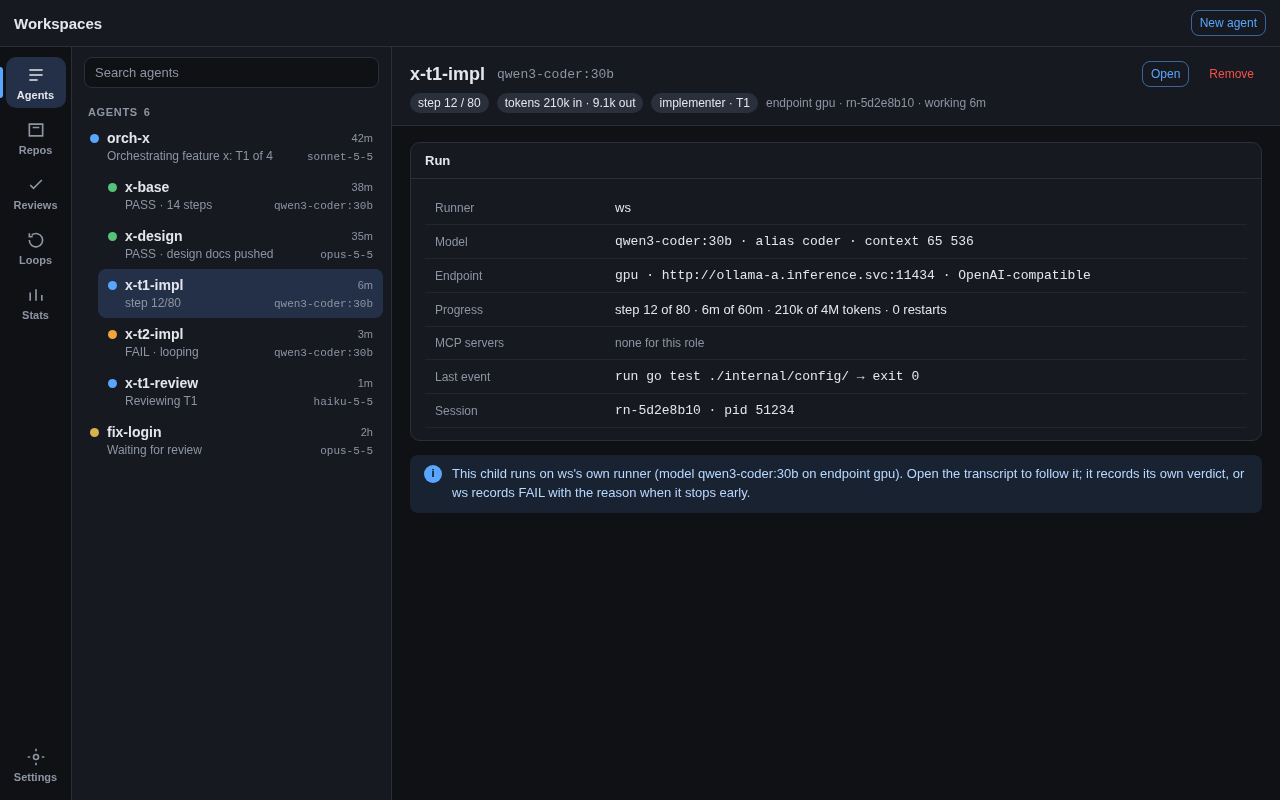
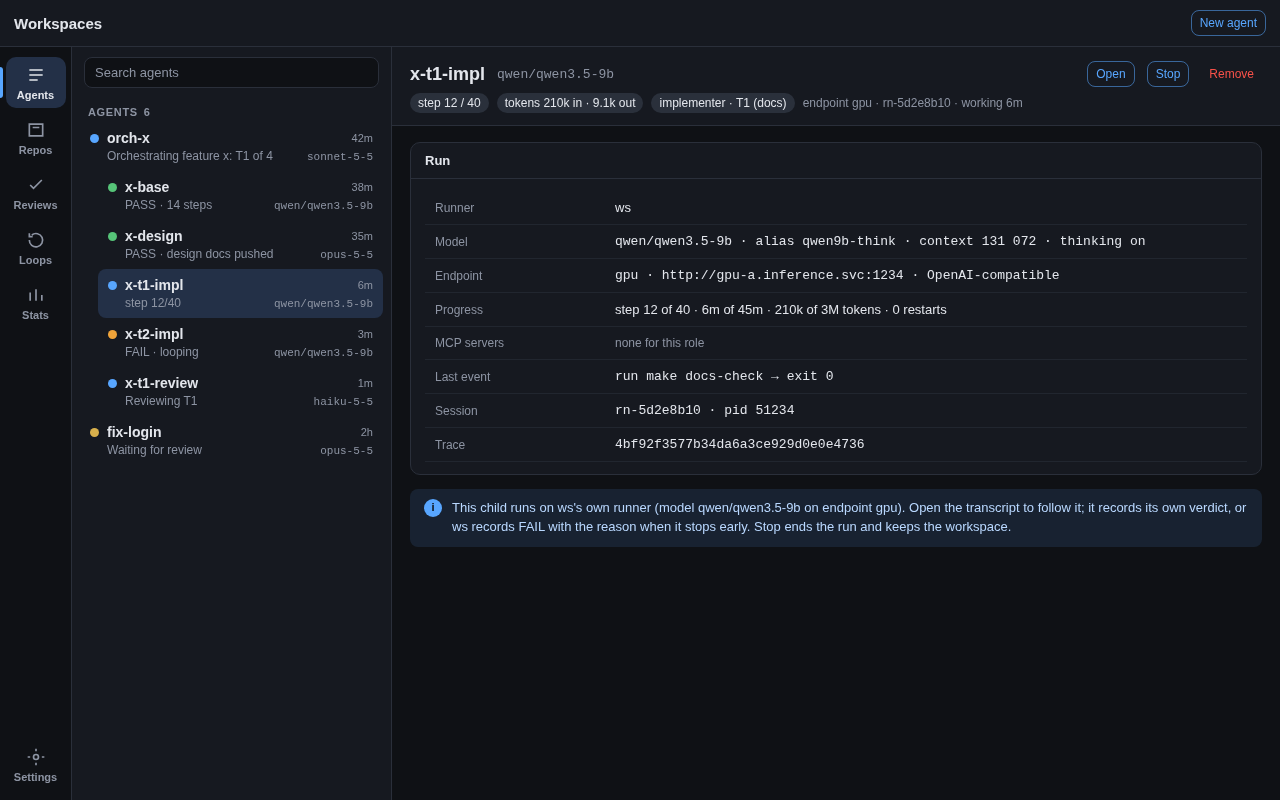
docs: re-render the runner mockups for the second review
Model ids become qwen/qwen3.5-9b, the agent pane gains Stop, Settings ›
Models gains the Runner service line and a reasoning column, the daemon
screen shows the app-hosted daemon, and a loop form screen shows the
runner and model pickers.

diff --git a/docs/design/ollama-agent/mockups.html b/docs/design/ollama-agent/mockups.html
@@ -1,11 +1,11 @@
 <!doctype html>
 <!--
   Static mockups for ws's own agent runner and the ws daemon
-  (docs/design/ollama-agent; ADRs 0062-0069). Open with a hash to pick a
+  (docs/design/ollama-agent; ADRs 0062-0070). Open with a hash to pick a
   screen, e.g. mockups.html#settings-models. Screens: cli-spawn,
   cli-children-wait, cli-errors, cli-list, cli-daemon (terminal, 1100 wide,
   height fitting the content) and agents-tree, transcript, settings-models,
-  settings-models-errors (desktop app, 1280x800). The PNGs in img/ are
+  settings-models-errors, loop-form (desktop app, 1280x800). The PNGs in img/ are
   rendered from this file with headless Chromium through Playwright; see
   README.md › Screens. Every agent, Claude or not, shows its model as quiet
   text; provider and endpoint are only in tooltips and the detail pane.
@@ -149,11 +149,11 @@ td { padding: 9px 10px; border-bottom: 1px solid color-mix(in srgb, var(--border
   <span class="k">"warnings"</span>: [],
   <span class="k">"role"</span>: <span class="s">"implementer"</span>,
   <span class="k">"runner"</span>: <span class="s">"ws"</span>,
-  <span class="k">"model"</span>: <span class="s">"qwen3-coder:30b"</span>,
+  <span class="k">"model"</span>: <span class="s">"qwen/qwen3.5-9b"</span>,
   <span class="k">"ws_runner"</span>: {
-    <span class="k">"model_alias"</span>: <span class="s">"coder"</span>,
+    <span class="k">"model_alias"</span>: <span class="s">"qwen9b"</span>,
     <span class="k">"endpoint"</span>: <span class="s">"gpu"</span>,
-    <span class="k">"url"</span>: <span class="s">"http://ollama-a.inference.svc:11434"</span>,
+    <span class="k">"url"</span>: <span class="s">"http://gpu-a.inference.svc:1234"</span>,
     <span class="k">"api"</span>: <span class="s">"openai"</span>,
     <span class="k">"context_tokens"</span>: <span class="n">65536</span>,
     <span class="k">"mcp_servers"</span>: []
@@ -165,21 +165,26 @@ td { padding: 9px 10px; border-bottom: 1px solid color-mix(in srgb, var(--border
 ws
 <span class="p">$</span> ws machine spawn --name x-verify --role verifier --var BRANCH=feat/x --var CHECKS="make lint; make test" \
     workspaces@feat/x | jq -c '{id, session, runner, model}'
-{"id":"x-verify-0d9e2f61","session":"rn-91b0c7aa","runner":"ws","model":"qwen3-coder:30b"}
+{"id":"x-verify-0d9e2f61","session":"rn-91b0c7aa","runner":"ws","model":"qwen/qwen3.5-9b"}
 
 <span class="c"># override only the model for one child, by alias:</span>
 <span class="p">$</span> ws machine spawn --runner ws --name x-t3-impl --role implementer --var TASK=T3 … workspaces@feat/x \
-    -- "" --model devstral | jq -c '{model, alias: .ws_runner.model_alias}'
-{"model":"devstral-small-2:24b","alias":"devstral"}</pre></div>
+    -- "" --model qwen9b-think | jq -c '{model, alias: .ws_runner.model_alias, context: .ws_runner.context_tokens}'
+{"model":"qwen/qwen3.5-9b","alias":"qwen9b-think","context":131072}
+
+<span class="c"># a raw model id works too; "/" and ":" are part of it, never split:</span>
+<span class="p">$</span> ws machine spawn --runner ws --endpoint ollama --name x-t4-impl --role implementer … workspaces@feat/x \
+    -- "" --model qwen3.5:9b | jq -c '{model, alias: .ws_runner.model_alias, warnings}'
+{"model":"qwen3.5:9b","alias":"","warnings":["qwen3.5:9b isn't a model alias; using it as a model id on endpoint ollama with qwen9b's context size (65536)"]}</pre></div>
 </section>
 
 <!-- 2. children + wait, mixed runners -->
 <section class="screen" id="cli-children-wait">
 <div class="term"><div class="termBar"><i></i><i></i><i></i><span>orchestrator · mixed runners</span></div>
 <pre class="out"><span class="p">$</span> ws machine children | jq -r '.workspaces[] | [.id, .session.runner, .session.model, .session.state, (.result.verdict // "-")] | @tsv'
-x-base-2c9d11f0       ws       qwen3-coder:30b     idle      PASS
+x-base-2c9d11f0       ws       qwen/qwen3.5-9b     idle      PASS
 x-design-8a1f3e22     claude   claude-opus-5-5     idle      PASS
-x-t1-impl-41aa0b7c    ws       qwen3-coder:30b     working   -
+x-t1-impl-41aa0b7c    ws       qwen/qwen3.5-9b     working   -
 x-t1-review-c3d5e7f9  claude   claude-sonnet-5-5   starting  -
 
 <span class="p">$</span> ws machine wait x-t1-impl-41aa0b7c x-t2-impl-7c41e0b2    <span class="c"># run in the background</span>
@@ -190,8 +195,8 @@ x-t1-review-c3d5e7f9  claude   claude-sonnet-5-5   starting  -
               "report": "/…/state/orch-x-1a2b3c4d/machine/x-t1-impl-41aa0b7c/report.md",
               "recorded_at": "2026-11-13T18:04:05Z"},
    "error": null,
-   "runner": "ws", "model": "qwen3-coder:30b",
-   "ws_runner": {"model_alias": "coder", "endpoint": "gpu", "exit": <span class="s">"done"</span>, "steps": 31, "restarts": 0,
+   "runner": "ws", "model": "qwen/qwen3.5-9b",
+   "ws_runner": {"model_alias": "qwen9b", "endpoint": "gpu", "exit": <span class="s">"done"</span>, "steps": 31, "restarts": 0,
                  "usage": {"requests": 33, "prompt_tokens": 512004, "completion_tokens": 18230},
                  "wall_seconds": 1104, "usage_file": "/…/machine/x-t1-impl-41aa0b7c/usage.json"}},
   {"id": "x-t2-impl-7c41e0b2", "session": "rn-3f2a9c1e", "role": "implementer",
@@ -200,8 +205,8 @@ x-t1-review-c3d5e7f9  claude   claude-sonnet-5-5   starting  -
               "report": "/…/state/orch-x-1a2b3c4d/machine/x-t2-impl-7c41e0b2/report.md",
               "recorded_at": "2026-11-13T18:21:40Z"},
    "error": {"code": <span class="e">"child_failed"</span>, "message": "x-t2-impl-7c41e0b2 finished with FAIL"},
-   "runner": "ws", "model": "qwen3-coder:30b",
-   "ws_runner": {"model_alias": "coder", "endpoint": "gpu", "exit": <span class="w">"looping"</span>, "steps": 47, "restarts": 0,
+   "runner": "ws", "model": "qwen/qwen3.5-9b",
+   "ws_runner": {"model_alias": "qwen9b", "endpoint": "gpu", "exit": <span class="w">"looping"</span>, "steps": 47, "restarts": 0,
                  "usage": {"requests": 47, "prompt_tokens": 1630221, "completion_tokens": 22015},
                  "wall_seconds": 2079, "usage_file": "/…/machine/x-t2-impl-7c41e0b2/usage.json"}}
  ],
@@ -222,17 +227,17 @@ The model called run {"command":"go test ./internal/config/"} 5 times in a row w
 <div class="term"><div class="termBar"><i></i><i></i><i></i><span>error states</span></div>
 <pre class="out"><span class="c"># endpoint down: preflight fails before anything is created</span>
 <span class="p">$</span> ws machine spawn --runner ws --role verifier --var BRANCH=feat/x --var CHECKS="make test" workspaces@feat/x
-{"error": {"code": <span class="e">"endpoint_unreachable"</span>, "message": "endpoint gpu (http://ollama-a.inference.svc:11434) didn't answer GET /v1/models: dial tcp 10.43.7.21:11434: connect: connection refused", "details": {"url": "http://ollama-a.inference.svc:11434", "cause": "connection refused"}}}
+{"error": {"code": <span class="e">"endpoint_unreachable"</span>, "message": "endpoint gpu (http://gpu-a.inference.svc:1234) didn't answer GET /v1/models: dial tcp 10.43.7.21:1234: connect: connection refused", "details": {"url": "http://gpu-a.inference.svc:1234", "cause": "connection refused"}}}
 <span class="c">exit status 1</span>
 
-<span class="c"># the model can't call tools (the endpoint's probe says so)</span>
+<span class="c"># the model can't call tools (the ollama endpoint's probe says so)</span>
 <span class="p">$</span> ws machine spawn --runner ws --role verifier … workspaces@feat/x -- "" --model gemma
-{"error": {"code": <span class="e">"model_without_tools"</span>, "message": "model gemma3:12b on endpoint gpu doesn't support tools; pick a model whose capabilities include tools", "details": {"model": "gemma3:12b", "capabilities": ["completion", "vision"]}}}
+{"error": {"code": <span class="e">"model_without_tools"</span>, "message": "model gemma3:12b on endpoint ollama doesn't support tools; pick a model whose capabilities include tools", "details": {"model": "gemma3:12b", "capabilities": ["completion", "vision"]}}}
 <span class="c">exit status 1</span>
 
 <span class="c"># the model isn't served there</span>
-<span class="p">$</span> ws machine spawn --runner ws --role verifier … workspaces@feat/x -- "" --model qwen3-coder:480b
-{"error": {"code": <span class="e">"model_not_served"</span>, "message": "model qwen3-coder:480b isn't served by endpoint gpu", "details": {"model": "qwen3-coder:480b", "models": ["devstral-small-2:24b", "gpt-oss:20b", "qwen3-coder:30b"]}}}
+<span class="p">$</span> ws machine spawn --runner ws --role verifier … workspaces@feat/x -- "" --model qwen/qwen3.5-27b
+{"error": {"code": <span class="e">"model_not_served"</span>, "message": "model qwen/qwen3.5-27b isn't served by endpoint gpu", "details": {"model": "qwen/qwen3.5-27b", "models": ["google/gemma-3-12b", "qwen/qwen3.5-9b"]}}}
 <span class="c">exit status 3</span>
 
 <span class="c"># with runner.fallback = "claude": a Claude child, and a warning</span>
@@ -253,8 +258,8 @@ The model called run {"command":"go test ./internal/config/"} 5 times in a row w
 <pre class="out"><span class="p">$</span> ws list
 ID                           SESSION              MODEL                AGE   REPOS
 orch-x-1a2b3c4d              e8cdf5d8 working     claude-sonnet-5-5    42m   workspaces@main
-└ x-base-2c9d11f0            rn-91b0c7aa idle     qwen3-coder:30b      38m   workspaces@main
-└ x-t1-impl-41aa0b7c         rn-5d2e8b10 working  qwen3-coder:30b       6m   workspaces@feat/x
+└ x-base-2c9d11f0            rn-91b0c7aa idle     qwen/qwen3.5-9b      38m   workspaces@main
+└ x-t1-impl-41aa0b7c         rn-5d2e8b10 working  qwen/qwen3.5-9b       6m   workspaces@feat/x
 └ x-t1-review-c3d5e7f9       c3d5e7f9 starting    claude-sonnet-5-5     0m   workspaces@feat/x-t1
 fix-login-d8efb24f           7a40c2d9 idle        claude-opus-5-5       2h   buff-bear@main
 notes-3b2a1c0d               shell running        -                    10m   (empty)
@@ -267,9 +272,9 @@ notes-3b2a1c0d               shell running        -                    10m   (em
   <span class="k">"pid"</span>: <span class="n">51234</span>,
   <span class="k">"stale"</span>: null,
   <span class="k">"runner"</span>: <span class="s">"ws"</span>,
-  <span class="k">"model"</span>: <span class="s">"qwen3-coder:30b"</span>,
+  <span class="k">"model"</span>: <span class="s">"qwen/qwen3.5-9b"</span>,
   <span class="k">"ws_runner"</span>: {
-    <span class="k">"model_alias"</span>: <span class="s">"coder"</span>, <span class="k">"endpoint"</span>: <span class="s">"gpu"</span>, <span class="k">"step"</span>: <span class="n">12</span>, <span class="k">"max_steps"</span>: <span class="n">80</span>, <span class="k">"restarts"</span>: <span class="n">0</span>,
+    <span class="k">"model_alias"</span>: <span class="s">"qwen9b"</span>, <span class="k">"endpoint"</span>: <span class="s">"gpu"</span>, <span class="k">"step"</span>: <span class="n">12</span>, <span class="k">"max_steps"</span>: <span class="n">80</span>, <span class="k">"restarts"</span>: <span class="n">0</span>,
     <span class="k">"usage"</span>: {<span class="k">"requests"</span>: <span class="n">12</span>, <span class="k">"prompt_tokens"</span>: <span class="n">210344</span>, <span class="k">"completion_tokens"</span>: <span class="n">9120</span>},
     <span class="k">"mcp"</span>: [],
     <span class="k">"exit"</span>: null
@@ -283,20 +288,24 @@ notes-3b2a1c0d               shell running        -                    10m   (em
 <!-- 5. ws daemon -->
 <section class="screen" id="cli-daemon">
 <div class="term"><div class="termBar"><i></i><i></i><i></i><span>ws daemon</span></div>
-<pre class="out"><span class="c"># in the ws-online pod, ws-online keeps a managed daemon running</span>
+<pre class="out"><span class="c"># with the desktop app open, the app hosts the daemon (in the ws-online pod, origin is "managed")</span>
 <span class="p">$</span> ws daemon status --json
-{"running": true, "pid": 40211, "origin": "managed", "started_at": "2026-11-14T08:00:03Z",
+{"running": true, "pid": 40211, "origin": "app", "started_at": "2026-11-14T08:00:03Z",
  "ws_version": "v0.31.0", "socket": "/tmp/ws-1000/3be1f0a94c21.sock", "config_dir": "/data/ws",
  "runners": [{"workspace": "x-t1-impl-41aa0b7c", "session": "rn-5d2e8b10", "pid": 51234,
               "state": "working", "restarts": 0, "adopted": false}],
  "warnings": []}
 
-<span class="c"># on a laptop with no daemon running, the first spawn starts one</span>
+<span class="c"># after the app quits, its daemon keeps the runner going, then exits 15 min after the last one ends</span>
+<span class="p">$</span> ws daemon status --json | jq -c '{running, origin, runners: (.runners | length)}'
+{"running":true,"origin":"app","runners":1}
+
+<span class="c"># with no app and no daemon running, the first spawn starts one</span>
 <span class="p">$</span> ws daemon status | jq -c '{running}'
 {"running":false}
 <span class="p">$</span> ws machine spawn --runner ws --name x-verify --role verifier --var BRANCH=feat/x --var CHECKS="make test" \
     workspaces@feat/x | jq -c '{session, model, ws_runner}'
-{"session":"rn-91b0c7aa","model":"qwen3-coder:30b","ws_runner":{"model_alias":"coder","endpoint":"gpu","url":"http://localhost:11434","api":"openai","context_tokens":65536,"mcp_servers":[]}}
+{"session":"rn-91b0c7aa","model":"qwen/qwen3.5-9b","ws_runner":{"model_alias":"qwen9b","endpoint":"gpu","url":"http://localhost:1234","api":"openai","context_tokens":65536,"mcp_servers":[]}}
 <span class="p">$</span> ws daemon status --json | jq -c '{running, origin}'
 {"running":true,"origin":"transient"}
 
@@ -330,7 +339,8 @@ const agent = ({name, dot, age, summary, model, tip, child, current}) => `
       <li class="item${child ? " child" : ""}${current ? " current" : ""}"><div class="row"><span class="dot ${dot}"></span><span class="name">${name}</span><span class="age">${age}</span></div>
         <div class="summaryRow"><span class="summary">${summary}</span><span class="modelLabel" title="${tip}">${model}</span></div></li>`;
 const claudeTip = (id) => `${id} · Claude Code`;
-const wsTip = `qwen3-coder:30b · alias coder · endpoint gpu (http://ollama-a.inference.svc:11434) · OpenAI-compatible`;
+const wsTip = `qwen/qwen3.5-9b · alias qwen9b · endpoint gpu (http://gpu-a.inference.svc:1234) · OpenAI-compatible`;
+const wsThinkTip = `qwen/qwen3.5-9b · alias qwen9b-think · endpoint gpu (http://gpu-a.inference.svc:1234) · OpenAI-compatible`;
 
 const tree = `
 <aside class="sidebar">
@@ -339,10 +349,10 @@ const tree = `
     <h2 class="heading">Agents <span>6</span></h2>
     <ul class="items">
       ${agent({name: "orch-x", dot: "working", age: "42m", summary: "Orchestrating feature x: T1 of 4", model: "sonnet-5-5", tip: claudeTip("claude-sonnet-5-5")})}
-      ${agent({name: "x-base", dot: "done", age: "38m", summary: "PASS · 14 steps", model: "qwen3-coder:30b", tip: wsTip, child: true})}
+      ${agent({name: "x-base", dot: "done", age: "38m", summary: "PASS · 14 steps", model: "qwen/qwen3.5-9b", tip: wsTip, child: true})}
       ${agent({name: "x-design", dot: "done", age: "35m", summary: "PASS · design docs pushed", model: "opus-5-5", tip: claudeTip("claude-opus-5-5"), child: true})}
-      ${agent({name: "x-t1-impl", dot: "working", age: "6m", summary: "step 12/80", model: "qwen3-coder:30b", tip: wsTip, child: true, current: true})}
-      ${agent({name: "x-t2-impl", dot: "needs", age: "3m", summary: "FAIL · looping", model: "qwen3-coder:30b", tip: wsTip, child: true})}
+      ${agent({name: "x-t1-impl", dot: "working", age: "6m", summary: "step 12/40", model: "qwen/qwen3.5-9b", tip: wsThinkTip, child: true, current: true})}
+      ${agent({name: "x-t2-impl", dot: "needs", age: "3m", summary: "FAIL · looping", model: "qwen/qwen3.5-9b", tip: wsThinkTip, child: true})}
       ${agent({name: "x-t1-review", dot: "working", age: "1m", summary: "Reviewing T1", model: "haiku-5-5", tip: claudeTip("claude-haiku-5-5"), child: true})}
       ${agent({name: "fix-login", dot: "idle", age: "2h", summary: "Waiting for review", model: "opus-5-5", tip: claudeTip("claude-opus-5-5")})}
     </ul>
@@ -351,9 +361,9 @@ const tree = `
 
 const header = `
 <section class="header">
-  <div class="titleRow"><h1 class="title">x-t1-impl</h1><span class="titleModel" title="${wsTip}">qwen3-coder:30b</span><span class="spacer"></span>
-    <button class="btn outlined small">Open</button><button class="btn danger small">Remove</button></div>
-  <div class="meta"><span class="chip">step 12 / 80</span><span class="chip">tokens 210k in · 9.1k out</span><span class="chip">implementer · T1</span>
+  <div class="titleRow"><h1 class="title">x-t1-impl</h1><span class="titleModel" title="${wsThinkTip}">qwen/qwen3.5-9b</span><span class="spacer"></span>
+    <button class="btn outlined small">Open</button><button class="btn outlined small">Stop</button><button class="btn danger small">Remove</button></div>
+  <div class="meta"><span class="chip">step 12 / 40</span><span class="chip">tokens 210k in · 9.1k out</span><span class="chip">implementer · T1 (docs)</span>
     <span class="muted">endpoint gpu · rn-5d2e8b10 · working 6m</span></div>
 </section>`;
 
@@ -362,19 +372,19 @@ const transcript = `
   <div class="msg user">You implement exactly one task, T1, in this repo. You are on branch feat/x. … <span class="muted">(role prompt, 1.4k tokens)</span></div>
   <div class="think">I'll read the task section first.</div>
   <div class="tool"><b>read_file</b> docs/design/x/tasks.md <span class="ck"></span> 212 lines</div>
-  <div class="tool"><b>read_file</b> internal/config/config.go offset 60 limit 120 <span class="ck"></span> 120 lines</div>
-  <div class="msg">The task adds a <code>Runner</code> section to <code>Config</code>. I'll create <code>internal/config/runner.go</code>.</div>
-  <div class="tool"><b>write_file</b> internal/config/runner.go <span class="ck"></span> wrote 4 120 bytes</div>
-  <div class="tool"><b>run</b> go test ./internal/config/ <span class="bad">exit 1</span> · runner_test.go:41: expected "gpu", got ""</div>
+  <div class="tool"><b>read_file</b> docs/tools/ws-loop.md offset 150 limit 80 <span class="ck"></span> 80 lines</div>
+  <div class="msg">The task adds two options to the <code>ws loop add</code> table. I'll edit that table.</div>
+  <div class="tool"><b>edit_file</b> docs/tools/ws-loop.md old "| <code>--paused</code> |" → 1 replacement <span class="ck"></span></div>
+  <div class="tool"><b>run</b> make docs-check <span class="bad">exit 1</span> · ws-loop.md:163 MD013 line length 132 &gt; 120</div>
   <div class="sys">invalid tool call: edit_file missing "new" · answered with the schema</div>
-  <div class="tool"><b>edit_file</b> internal/config/runner.go old "return Run{}, nil" → 1 replacement <span class="ck"></span></div>
+  <div class="tool"><b>edit_file</b> docs/tools/ws-loop.md old "endpoint from config.toml. Only" → 1 replacement <span class="ck"></span></div>
   <div class="sys warn">retry 1/3 after 503 Service Unavailable · waited 2s</div>
-  <div class="tool"><b>run</b> go test ./internal/config/ <span class="ok">exit 0</span> · ok  github.com/example/workspaces/internal/config 0.41s</div>
-  <div class="sys">context compacted: 41k → 19k tokens · 6 tool results elided</div>
-  <div class="tool"><b>run</b> make lint <span class="ok">exit 0</span></div>
-  <div class="msg"><span class="muted">working… step 12 of 80</span></div>
+  <div class="tool"><b>run</b> make docs-check <span class="ok">exit 0</span></div>
+  <div class="sys">context compacted: 98k → 41k tokens · 6 tool results elided</div>
+  <div class="tool"><b>run</b> git commit -qam "docs: document loop runner options" <span class="ok">exit 0</span></div>
+  <div class="msg"><span class="muted">working… step 12 of 40</span></div>
 </div>
-<div class="noreply">Children on the ws runner run unattended: there's no reply box, Attach or Continue. Remove stops the runner.</div>`;
+<div class="noreply">Children on the ws runner run unattended: there's no reply box, Attach or Continue. Stop ends the run and keeps the workspace; Remove stops it and removes it.</div>`;
 
 const settingsList = (active) => `
 <aside class="sidebar settingsList" style="width:240px">
@@ -386,6 +396,10 @@ const settingsList = (active) => `
 const dot = (color, text) => `<span class="statusDot" style="background:${color}"></span>${text}`;
 const ok = "var(--status-done)", bad = "var(--danger)", warn = "var(--status-needs-input)";
 
+const serviceCard = (errors) => `
+<div class="card"><div class="cardHead">Runner service <span class="spacer"></span><button class="btn small">Restart</button></div>
+<div class="cardBody" style="padding:10px 14px">${dot(ok, "running")} <span class="muted">· started by this app · pid 40211 · ${errors ? "0 runners" : "2 runners"} · since 08:00</span></div></div>`;
+
 const endpointsCard = (errors) => `
 <div class="card">
   <div class="cardHead">Endpoints <span class="spacer"></span><button class="btn small">Add endpoint</button></div>
@@ -393,10 +407,10 @@ const endpointsCard = (errors) => `
   <table>
     <colgroup><col style="width:100px"><col style="width:310px"><col style="width:170px"><col style="width:100px"><col></colgroup>
     <tr><th>Name</th><th>URL</th><th>API</th><th>Probe</th><th>Status</th></tr>
-    <tr><td><b>gpu</b></td><td class="mono">http://ollama-a.inference.svc:11434</td><td>OpenAI-compatible</td><td>Ollama</td>
-      <td>${errors ? dot(bad, "unreachable") : dot(ok, "4 models")}</td></tr>
-    <tr><td><b>router</b></td><td class="mono">http://llm-router.inference.svc:8080</td><td>OpenAI-compatible</td><td class="muted">none</td>
-      <td>${dot(ok, "6 models")}</td></tr>
+    <tr><td><b>gpu</b></td><td class="mono">http://gpu-a.inference.svc:1234</td><td>OpenAI-compatible</td><td class="muted">none</td>
+      <td>${errors ? dot(bad, "unreachable") : dot(ok, "2 models")}</td></tr>
+    <tr><td><b>ollama</b></td><td class="mono">http://ollama-a.inference.svc:11434</td><td>OpenAI-compatible</td><td>Ollama</td>
+      <td>${dot(ok, "3 models")}</td></tr>
   </table></div>
 </div>`;
 
@@ -405,46 +419,78 @@ const modelsCard = (errors) => `
   <div class="cardHead">Models <span class="spacer"></span><button class="btn small">Add model</button></div>
   <div class="cardBody" style="padding:4px 4px">
   <table>
-    <colgroup><col style="width:110px"><col style="width:100px"><col style="width:220px"><col style="width:100px"><col></colgroup>
-    <tr><th>Alias</th><th>Endpoint</th><th>Model id</th><th>Context</th><th>Status</th></tr>
-    <tr><td><b>coder</b> <span class="muted">default</span></td><td>gpu</td><td class="mono">qwen3-coder:30b</td><td>65 536</td>
-      <td>${errors ? dot(bad, "endpoint unreachable") : dot(ok, "tools <span class=\"ck\"></span>")}</td></tr>
-    <tr><td><b>devstral</b></td><td>gpu</td><td class="mono">devstral-small-2:24b</td><td>65 536</td>
-      <td>${errors ? dot(bad, "endpoint unreachable") : dot(ok, "tools <span class=\"ck\"></span>")}</td></tr>
-    <tr><td><b>small</b></td><td>router</td><td class="mono">${errors ? "gemma3:12b" : "gpt-oss:20b"}</td><td>32 768</td>
-      <td>${errors ? dot(warn, "can't check tools: no probe") : `<span class="muted">served · no probe</span>`}</td></tr>
+    <colgroup><col style="width:150px"><col style="width:90px"><col style="width:170px"><col style="width:90px"><col style="width:120px"><col></colgroup>
+    <tr><th>Alias</th><th>Endpoint</th><th>Model id</th><th>Context</th><th>Reasoning</th><th>Status</th></tr>
+    <tr><td><b>qwen9b</b> <span class="muted">default</span></td><td>gpu</td><td class="mono">qwen/qwen3.5-9b</td><td>65 536</td><td>none</td>
+      <td>${errors ? dot(bad, "endpoint unreachable") : `<span class="muted">served · no probe</span>`}</td></tr>
+    <tr><td><b>qwen9b-think</b></td><td>gpu</td><td class="mono">qwen/qwen3.5-9b</td><td>131 072</td><td class="muted">server default</td>
+      <td>${errors ? dot(bad, "endpoint unreachable") : `<span class="muted">served · no probe</span>`}</td></tr>
+    <tr><td><b>qwen9b-ollama</b></td><td>ollama</td><td class="mono">qwen3.5:9b</td><td>65 536</td><td>none</td>
+      <td>${dot(ok, "tools <span class=\"ck\"></span>")}</td></tr>
+    <tr><td><b>gemma</b></td><td>ollama</td><td class="mono">gemma3:12b</td><td>32 768</td><td class="muted">server default</td>
+      <td>${errors ? dot(bad, "no tools") : dot(warn, "no tools")}</td></tr>
   </table></div>
 </div>`;
 
 const settingsModels = (errors) => `
 <div class="root tall">${topBar}<div class="body">${rail("Settings")}${settingsList("Models")}
 <main class="main"><section class="header"><div class="titleRow"><h1 class="title">Models</h1></div>
-<div class="meta">Models for ws runner children (any OpenAI-compatible server now; other APIs later). Saved to <span class="mono">config.toml</span> with <span class="mono">ws config</span>; tokens to <span class="mono">secrets.env</span>.</div></section>
+<div class="meta">Models for agents on the ws runner (any OpenAI-compatible server now; Ollama native next). Saved to <span class="mono">config.toml</span> with <span class="mono">ws config</span>; tokens to <span class="mono">secrets.env</span>.</div></section>
 <div class="content" style="max-width:980px">
 ${errors ? `
-<div class="alert err"><span class="ico err">!</span><div><b>gpu is unreachable.</b> GET http://ollama-a.inference.svc:11434/v1/models: dial tcp 10.43.7.21:11434: connect: connection refused. New children that use it fail with <span class="mono">endpoint_unreachable</span> until it answers. Fallback is off, so no Claude child is started instead.</div><span class="spacer"></span><button class="btn small">Test again</button></div>
-<div class="alert warn"><span class="ico warn">!</span><div><b>gemma3:12b on router doesn't support tools.</b> The router has no probe, so a run would stop on its first request with <span class="mono">model_no_tools</span>. Point the alias <span class="mono">small</span> at a model that can call tools.</div></div>` : ""}
+<div class="alert err"><span class="ico err">!</span><div><b>gpu is unreachable.</b> GET http://gpu-a.inference.svc:1234/v1/models: dial tcp 10.43.7.21:1234: connect: connection refused. New agents that use it fail with <span class="mono">endpoint_unreachable</span> until it answers. Fallback is off, so no Claude child is started instead.</div><span class="spacer"></span><button class="btn small">Test again</button></div>
+<div class="alert warn"><span class="ico warn">!</span><div><b>gemma3:12b on ollama doesn't support tools.</b> Its probe says <span class="mono">completion, vision</span>. Agents that use the alias <span class="mono">gemma</span> fail with <span class="mono">model_without_tools</span>; point it at a model that can call tools.</div></div>` : ""}
+${serviceCard(errors)}
 ${endpointsCard(errors)}
 ${modelsCard(errors)}
 ${errors ? "" : `
 <div class="card"><div class="cardHead">Edit endpoint · gpu<span class="spacer"></span><button class="btn small">Test connection</button><button class="btn contained small">Save</button></div>
 <div class="cardBody"><div class="form">
   <label>Name</label><div class="field mono">gpu</div><label>API</label><div class="field select">OpenAI-compatible</div>
-  <label>URL</label><div class="field mono">http://ollama-a.inference.svc:11434</div><label></label><div class="muted">Ollama native, OpenAI Responses, Anthropic: later</div>
-  <label>Probe</label><div class="field select">Auto (found Ollama)</div><label>Token</label><div class="field muted">•••••••• from secrets.env</div>
+  <label>URL</label><div class="field mono">http://gpu-a.inference.svc:1234</div><label></label><div class="muted">Ollama native: next. OpenAI Responses, Anthropic: later</div>
+  <label>Probe</label><div class="field select">Auto (none found)</div><label>Token</label><div class="field muted">•••••••• from secrets.env</div>
   <label>Request timeout</label><div class="field">10m</div><label>Idle timeout</label><div class="field">90s</div>
 </div>
-<div class="alert info" style="margin-top:12px"><span class="ico info">i</span><div>Ollama 0.40.16 · 4 models · <span class="mono">qwen3-coder:30b</span> supports tools · its context length 262 144 ≥ 65 536</div></div>
+<div class="alert info" style="margin-top:12px"><span class="ico info">i</span><div>2 models · <span class="mono">qwen/qwen3.5-9b</span> is served · no probe, so tool support and the context length aren't checked: <span class="mono">context_tokens</span> must match the server's load setting</div></div>
 </div></div>`}
 <div class="setRow" style="padding:4px 0"><div class="lbl"><div>Fall back to Claude</div><div class="muted">When an endpoint is down or a model can't call tools, start a Claude child instead of failing the spawn.</div></div><div><span class="switch"></span></div></div>
 <div class="card"><div class="cardHead">Roles</div><div class="cardBody" style="padding:4px 4px"><table>
-  <colgroup><col style="width:140px"><col style="width:120px"><col style="width:150px"><col style="width:220px"><col></colgroup>
-  <tr><th>Role</th><th>Runner</th><th>Model</th><th>MCP servers</th><th>Budget</th></tr>
-  <tr><td>implementer</td><td><span class="field select" style="min-height:28px;padding:3px 8px">Claude</span></td><td class="muted">haiku (role)</td><td class="muted">Claude Code's</td><td class="muted">-</td></tr>
-  <tr><td>reviewer</td><td><span class="field select" style="min-height:28px;padding:3px 8px">Claude</span></td><td class="muted">sonnet (role)</td><td class="muted">Claude Code's</td><td class="muted">-</td></tr>
-  <tr><td>verifier</td><td><span class="field select" style="min-height:28px;padding:3px 8px">ws</span></td><td class="mono">coder</td><td class="muted">none</td><td class="muted">40 steps · 60m</td></tr>
-  <tr><td>oncall</td><td><span class="field select" style="min-height:28px;padding:3px 8px">ws</span></td><td class="mono">coder</td><td>mcp-grafana <span class="muted">(9 tools)</span></td><td class="muted">60 steps · 60m</td></tr>
+  <colgroup><col style="width:140px"><col style="width:120px"><col style="width:200px"><col style="width:170px"><col></colgroup>
+  <tr><th>Role</th><th>Runner</th><th>Model on the ws runner</th><th>MCP servers</th><th>Budget</th></tr>
+  <tr><td>implementer</td><td><span class="field select" style="min-height:28px;padding:3px 8px">Claude</span></td><td class="mono">qwen9b-think</td><td class="muted">none</td><td class="muted">40 steps · 45m</td></tr>
+  <tr><td>reviewer</td><td><span class="field select" style="min-height:28px;padding:3px 8px">Claude</span></td><td class="muted">-</td><td class="muted">none</td><td class="muted">-</td></tr>
+  <tr><td>verifier</td><td><span class="field select" style="min-height:28px;padding:3px 8px">ws</span></td><td class="mono">qwen9b</td><td class="muted">none</td><td class="muted">30 steps · 30m</td></tr>
+  <tr><td>triage</td><td><span class="field select" style="min-height:28px;padding:3px 8px">ws</span></td><td class="mono">qwen9b-think</td><td>metrics <span class="muted">(9 tools)</span></td><td class="muted">60 steps · 60m</td></tr>
 </table></div></div>
+</div></main></div></div>`;
+
+const loopsList = `
+<aside class="sidebar">
+  <div class="search">Search loops</div>
+  <div class="list">
+    <h2 class="heading">Loops <span>3</span></h2>
+    <ul class="items">
+      <li class="item current"><div class="row"><span class="dot working"></span><span class="name">Docs sweep</span><span class="age">every 24h</span></div><div class="summary">next in 9h · last run PASS</div></li>
+      <li class="item"><div class="row"><span class="dot idle"></span><span class="name">Dependency bump</span><span class="age">every 24h</span></div><div class="summary">next in 3h</div></li>
+      <li class="item"><div class="row"><span class="dot"></span><span class="name">Flaky test hunt</span><span class="age">paused</span></div><div class="summary">paused</div></li>
+    </ul>
+  </div>
+</aside>`;
+
+const loopForm = `
+<div class="root">${topBar}<div class="body">${rail("Loops")}${loopsList}
+<main class="main"><section class="header"><div class="titleRow"><h1 class="title">Edit loop · docs-sweep</h1><span class="spacer"></span><button class="btn small">Cancel</button><button class="btn contained small">Save</button></div></section>
+<div class="content" style="max-width:900px">
+  <div class="card"><div class="cardHead">Schedule</div><div class="cardBody"><div class="form">
+    <label>Name</label><div class="field mono muted">docs-sweep</div><label>Every</label><div class="field">24 <span class="muted">hours</span></div>
+    <label>Title</label><div class="field">Docs sweep</div><label>Keep</label><div class="field">5</div>
+  </div></div></div>
+  <div class="card"><div class="cardHead">Prompt</div><div class="cardBody"><div class="field mono" style="min-height:64px;white-space:pre-wrap">Check docs/tools/*.md against each command's --help. Fix wording drift in at most two files, run make docs-check, commit, push a branch, and record PASS or FAIL.</div></div></div>
+  <div class="card"><div class="cardHead">Agent</div><div class="cardBody"><div class="form">
+    <label>Model</label><div class="field select"><span><span class="mono">qwen9b-think</span> <span class="muted">· qwen/qwen3.5-9b</span></span></div><label>Runner</label><div class="field select">ws runner</div>
+    <label>Endpoint</label><div class="field select">The model's endpoint (gpu)</div><label></label><div class="muted">Permission mode applies to Claude Code only.</div>
+  </div></div></div>
+  <div class="card"><div class="cardHead">Repos</div><div class="cardBody"><span class="chip">workspaces</span></div></div>
 </div></main></div></div>`;
 
 const screens = {
@@ -452,18 +498,20 @@ const screens = {
     <div class="card"><div class="cardHead">Run</div><div class="cardBody"><table>
       <colgroup><col style="width:180px"><col></colgroup>
       <tr><td class="muted">Runner</td><td>ws</td></tr>
-      <tr><td class="muted">Model</td><td class="mono">qwen3-coder:30b · alias coder · context 65 536</td></tr>
-      <tr><td class="muted">Endpoint</td><td class="mono">gpu · http://ollama-a.inference.svc:11434 · OpenAI-compatible</td></tr>
-      <tr><td class="muted">Progress</td><td>step 12 of 80 · 6m of 60m · 210k of 4M tokens · 0 restarts</td></tr>
+      <tr><td class="muted">Model</td><td class="mono">qwen/qwen3.5-9b · alias qwen9b-think · context 131 072 · thinking on</td></tr>
+      <tr><td class="muted">Endpoint</td><td class="mono">gpu · http://gpu-a.inference.svc:1234 · OpenAI-compatible</td></tr>
+      <tr><td class="muted">Progress</td><td>step 12 of 40 · 6m of 45m · 210k of 3M tokens · 0 restarts</td></tr>
       <tr><td class="muted">MCP servers</td><td class="muted">none for this role</td></tr>
-      <tr><td class="muted">Last event</td><td class="mono">run go test ./internal/config/ → exit 0</td></tr>
+      <tr><td class="muted">Last event</td><td class="mono">run make docs-check → exit 0</td></tr>
       <tr><td class="muted">Session</td><td class="mono">rn-5d2e8b10 · pid 51234</td></tr>
+      <tr><td class="muted">Trace</td><td class="mono">4bf92f3577b34da6a3ce929d0e0e4736</td></tr>
     </table></div></div>
-    <div class="alert info"><span class="ico info">i</span><div>This child runs on ws's own runner (model qwen3-coder:30b on endpoint gpu). Open the transcript to follow it; it records its own verdict, or ws records FAIL with the reason when it stops early.</div></div>
+    <div class="alert info"><span class="ico info">i</span><div>This child runs on ws's own runner (model qwen/qwen3.5-9b on endpoint gpu). Open the transcript to follow it; it records its own verdict, or ws records FAIL with the reason when it stops early. Stop ends the run and keeps the workspace.</div></div>
   </div></main></div></div>`,
   "transcript": `<div class="root">${topBar}<div class="body">${rail("Agents")}${tree}<main class="main">${header}${transcript}</main></div></div>`,
   "settings-models": settingsModels(false),
   "settings-models-errors": settingsModels(true),
+  "loop-form": loopForm,
 };
 for (const [id, html] of Object.entries(screens)) {
   const s = document.createElement("section");

diff --git a/docs/design/ollama-agent/README.md b/docs/design/ollama-agent/README.md
@@ -810,8 +810,8 @@ Fake data only. Rendered from [mockups.html](mockups.html) with headless
 Chromium (Playwright `playwright-core` 1.56.1, the `chromium_headless_shell`
 build 1255) at device scale 1, one screenshot per `#<screen>` hash of the
 screen's element: app screens 1280 wide and 800 high, except the two
-Settings › Models screens, which grow to fit their tables (1147 and 991
-high); terminal screens 1100 wide.
+Settings › Models screens, which grow to fit their tables (1297 and 1121
+high); terminal screens 1100 wide, as high as their content.
 
 | Screen | File |
 | ------ | ---- |
